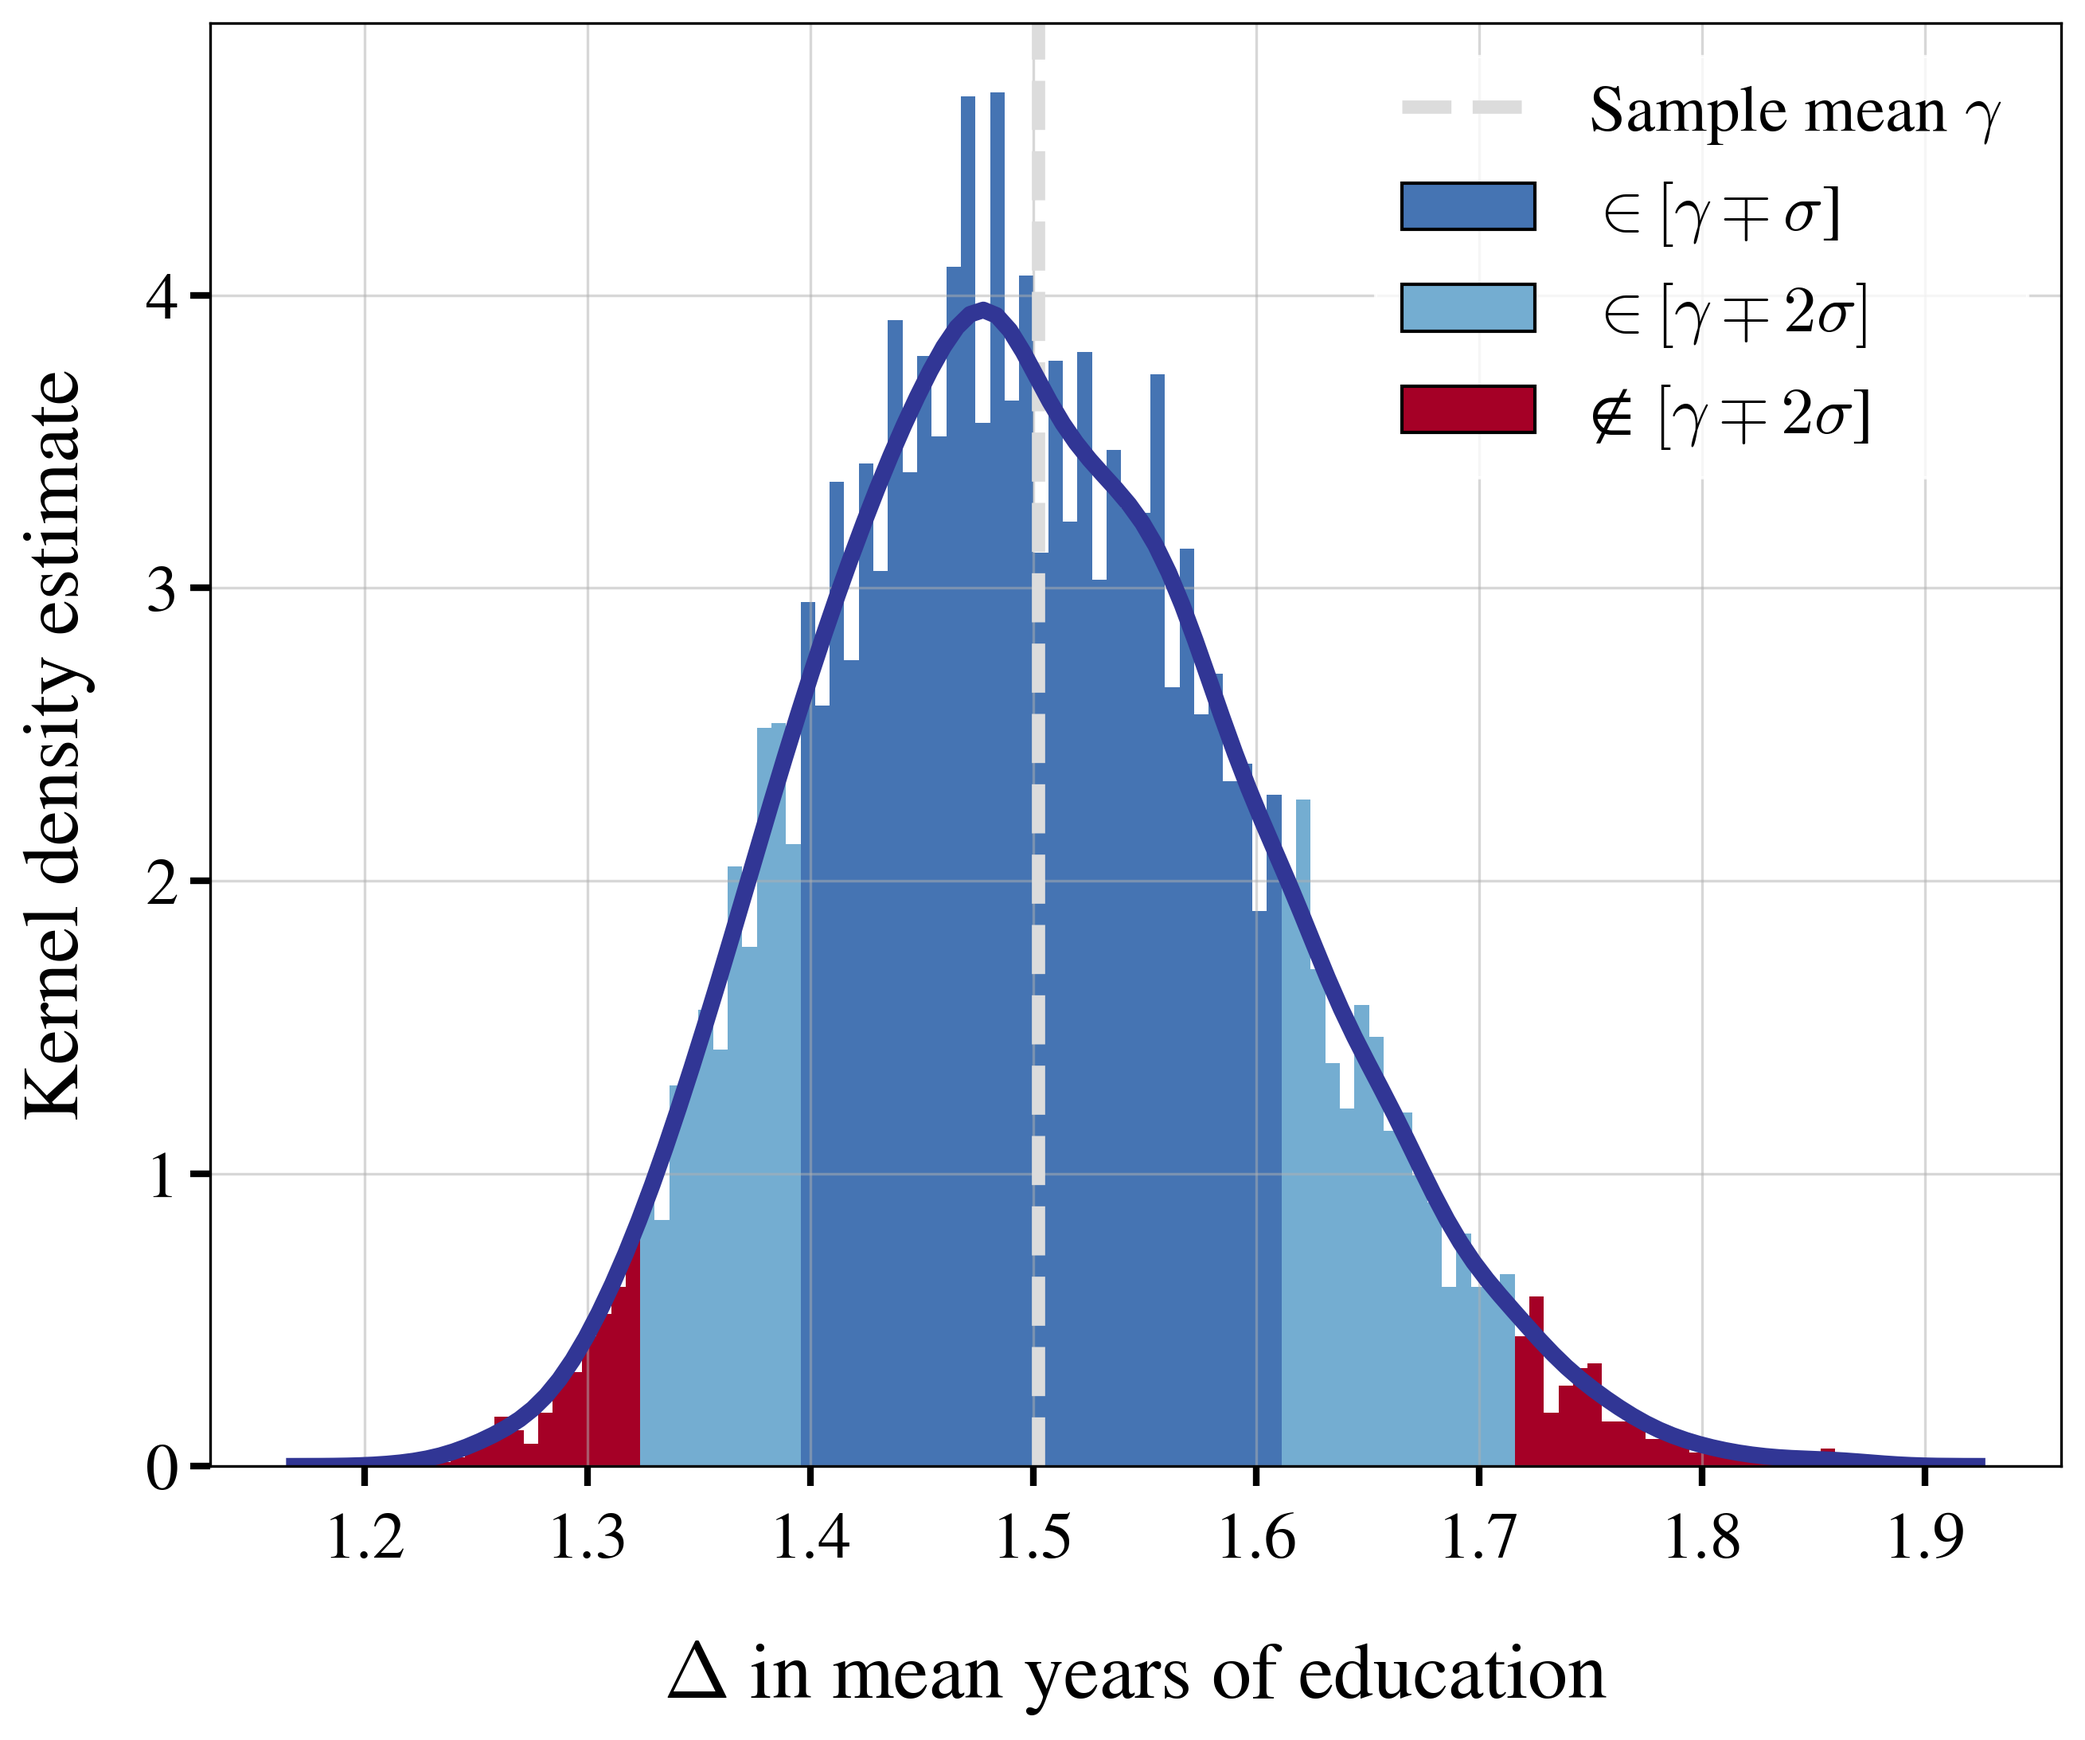
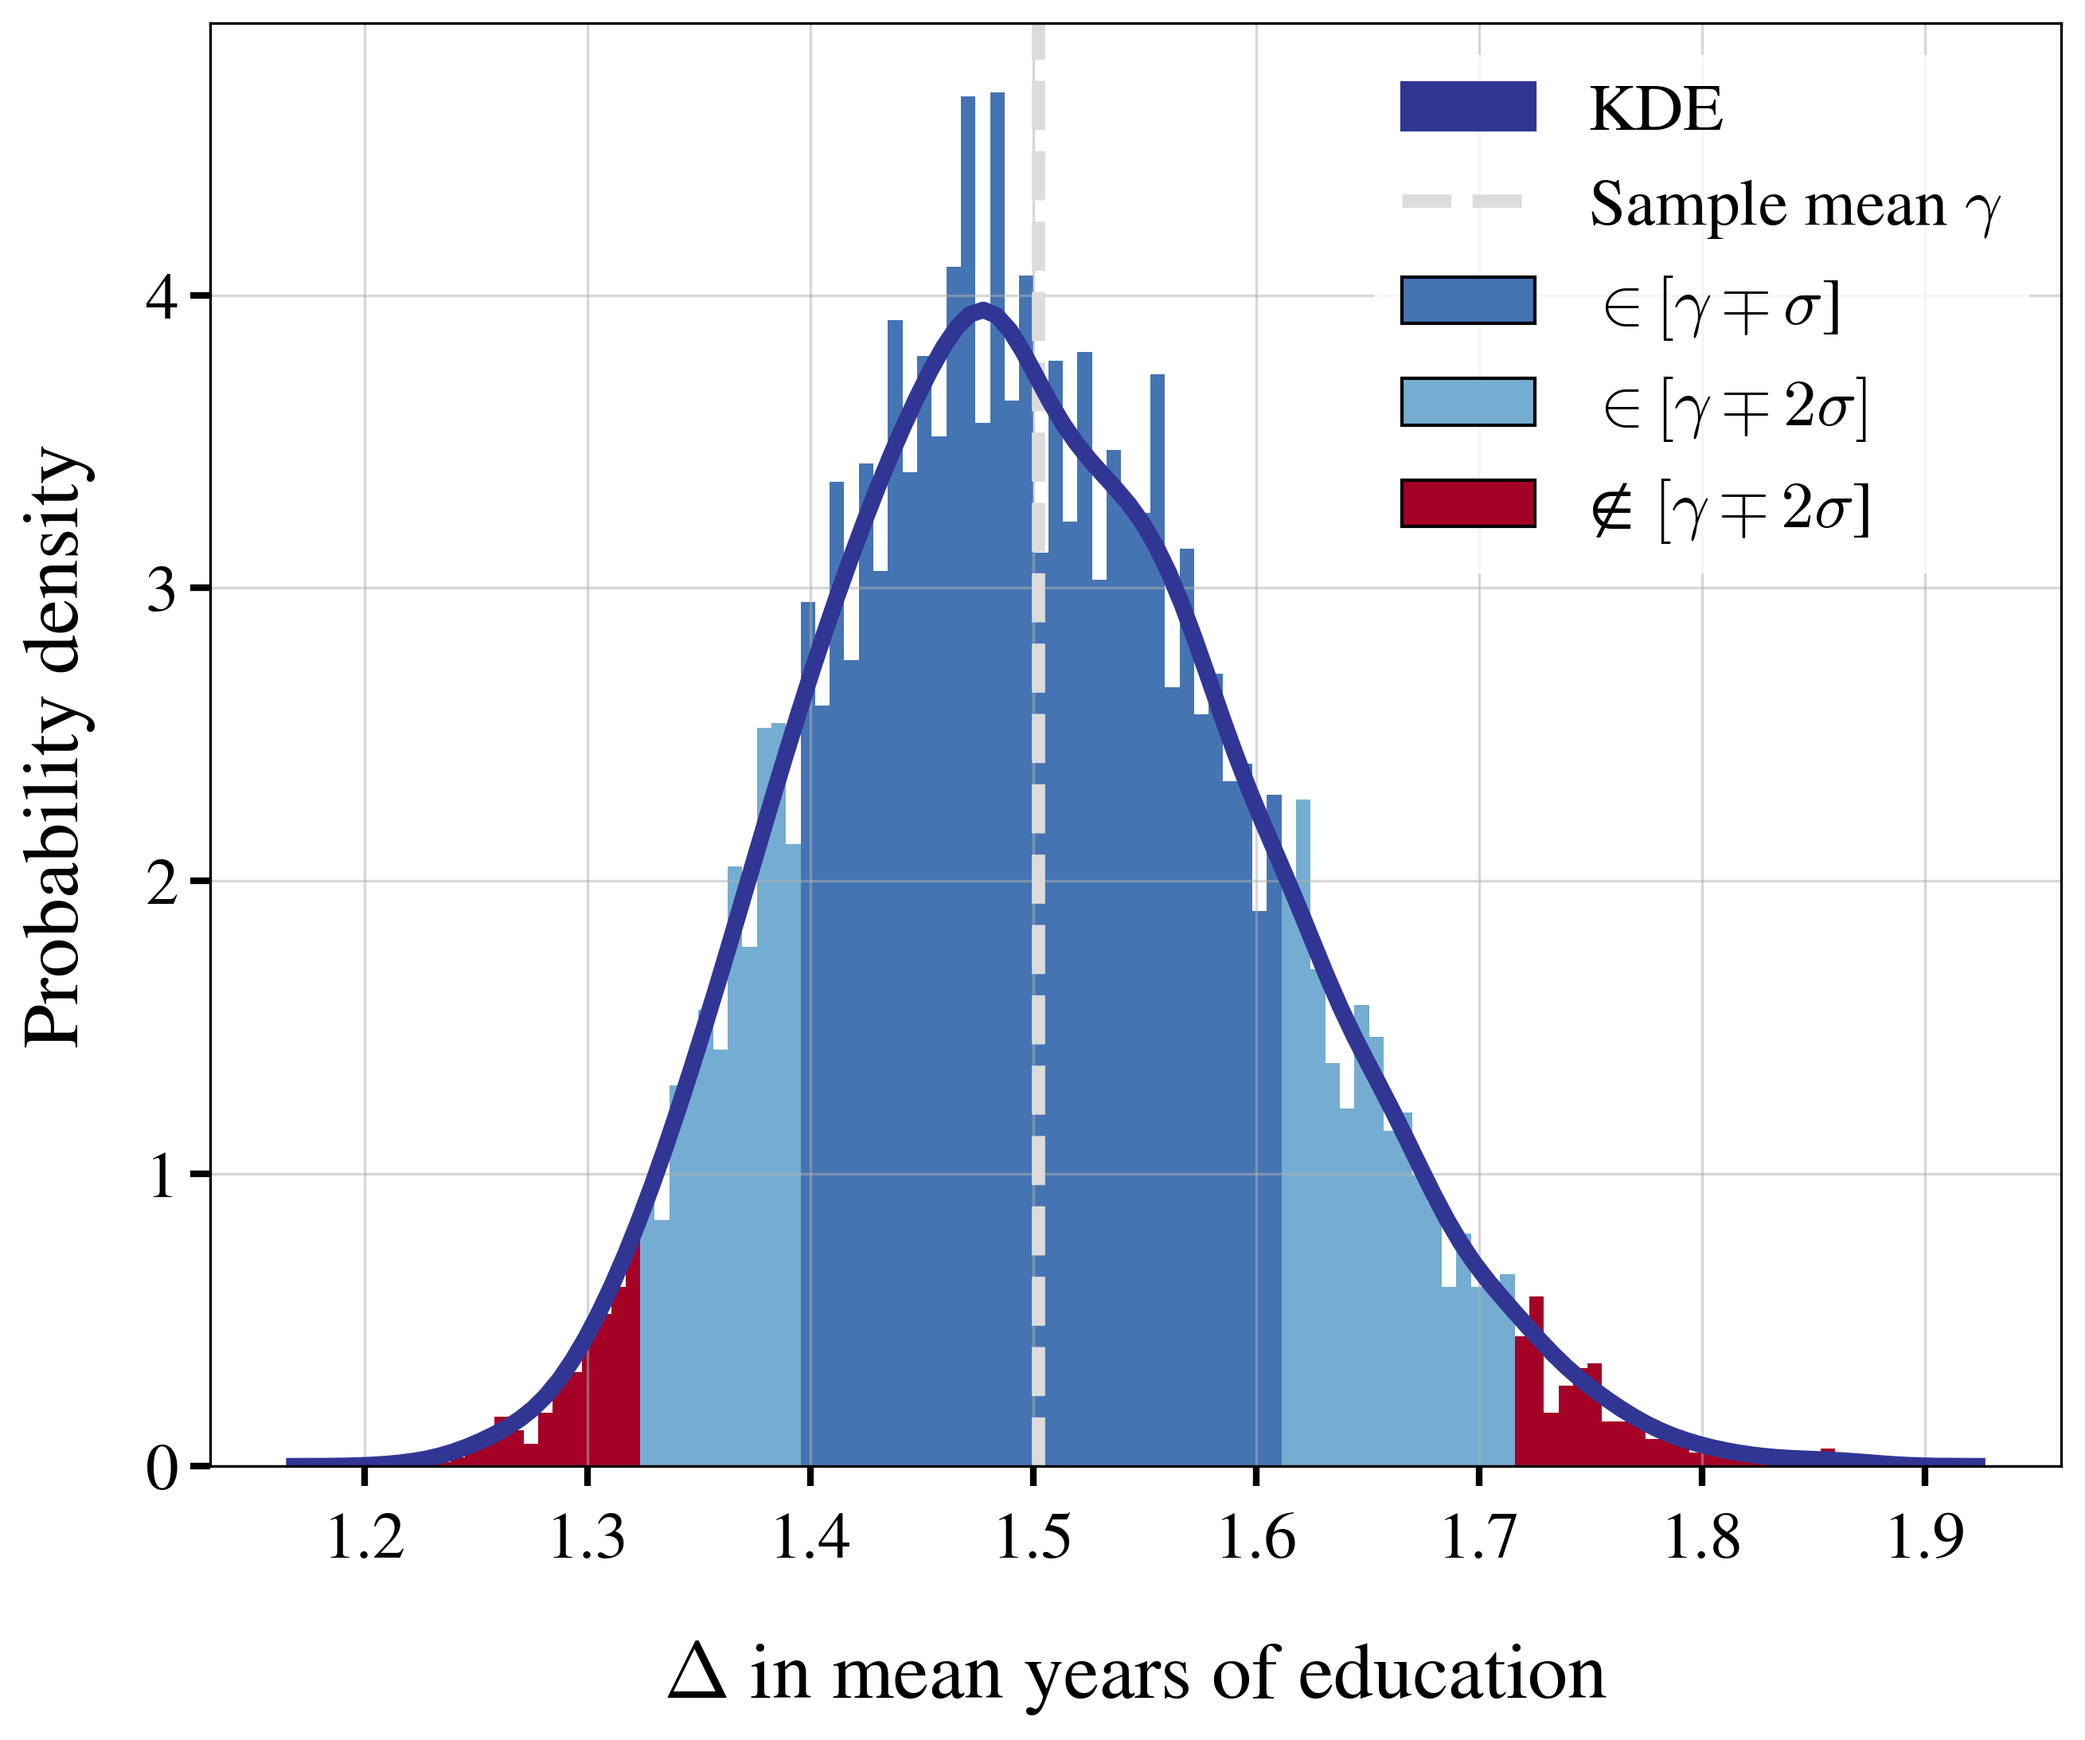
distplot perfected

Changed region(s): [[0.6495, 0.0311, 0.8969, 0.3112], [0.0, 0.2178, 0.0619, 0.6535], [0.7732, 0.0311, 0.9278, 0.1867]]

diff --git a/python/plots.py b/python/plots.py
@@ -7,6 +7,7 @@ import pandas as pd
 import seaborn as sns
 
 from matplotlib.patches import Rectangle
+import matplotlib.patches as mpatches
 
 # Set some plt and sns properties: Latex font and custom colors.
 plt.rcParams["mathtext.fontset"] = "cm"
@@ -155,27 +156,33 @@ def distplot(sample, qoi_name, save=False):
 
     # Plot mean as vertical line.
     mean = ax.axvline(
-        np.mean(sample), color="gainsboro", linestyle="--", lw=4, label="Sample mean"
+        np.mean(sample), color="gainsboro", linestyle="--", lw=4
     )
 
-    # create legend
+
+    # Call seaborn.distplot and set options.
+    dp = sns.distplot(
+        sample, hist=False, kde=True, kde_kws=dict(color=cmap(0.0),
+            linewidth=5, label = "KDE")
+    )
+
+
+    kde_patch = mpatches.Patch(color=cmap(0.0), label='KDE')
     handles = [
         Rectangle((0, 0), 1, 1, color=c, ec="k")
         for c in [perc_2dot5_colour, perc_16_colour, perc_50_colour]
     ]
     handles.append(mean)
+    handles.append(kde_patch)
     labels = [
+        "KDE",
         r"Sample mean $\gamma$",
         r"$\in [\gamma \mp \sigma$]",
         r"$\in [\gamma \mp 2\sigma]$",
         r"$\notin ~[\gamma \mp 2\sigma$]",
     ]
+    # Reverse list order.
     ax.legend(handles[::-1], labels, edgecolor="white", fontsize=20)
-
-    # Call seaborn.distplot and set options.
-    dp = sns.distplot(
-        sample, hist=False, kde=True, kde_kws=dict(color=cmap(0.0), linewidth=5)
-    )
 
     ax.grid(True, linestyle="-", alpha=0.5)
     ax.tick_params(axis="both", direction="out", length=6, width=2)
@@ -184,7 +191,7 @@ def distplot(sample, qoi_name, save=False):
     ax.set_xlabel("{}".format(qoi_name), labelpad=20)
     # ax.spines["top"].set_visible(False)
     # ax.spines["right"].set_visible(False)
-    ax.set_ylabel("Kernel density estimate", labelpad=15)
+    ax.set_ylabel("Probability density", labelpad=15)
 
     if save is True:
         # Define the script path relative to the jupyter notebook that calls the script.

diff --git a/python/script_uncertainty_propagation.py b/python/script_uncertainty_propagation.py
@@ -111,17 +111,18 @@ def run(args):
     assert np.isinf(temp_array.any()) == 0
     assert np.isnan(temp_array.any()) == 0
 
-    # Save the random parameters and the quantity of interest.
+    # Store the random parameters and the quantity of interest.
     # Paramter x iteration
     tmp_idx = pd.read_pickle("input/est_rand_params_chol.pkl").index
     mc_input_parameters_df = pd.DataFrame(
         np.column_stack(mc_sample_input_parameters), index=tmp_idx
     )
-
+    # The shares for each iteration are stacked along the vertical axis.
+    # Therefore, indices 16-65 are not unique. Dim.: (65-15)*n_iter x 4.
     mc_base_occ_shares_df = pd.concat(mc_base_occ_shares)
     mc_policy_occ_shares_df = pd.concat(mc_policy_occ_shares)
 
-    # 1 x Iteration
+    # Dim.: 1 x Iteration
     mc_change_avg_edu_df = pd.DataFrame(
         mc_change_avg_edu,
         columns=["change_avg_schooling"],
